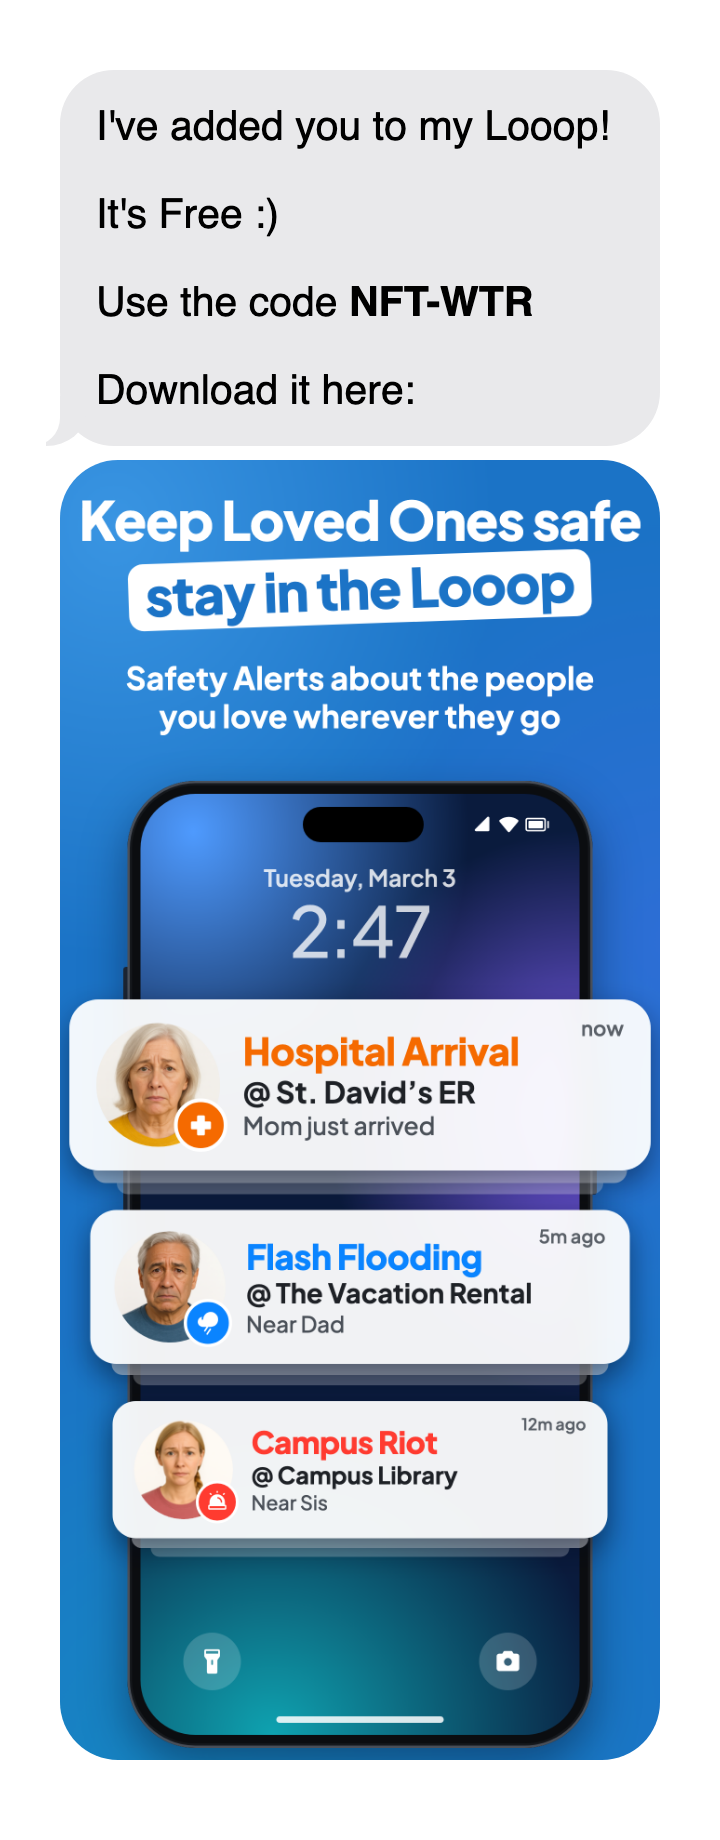
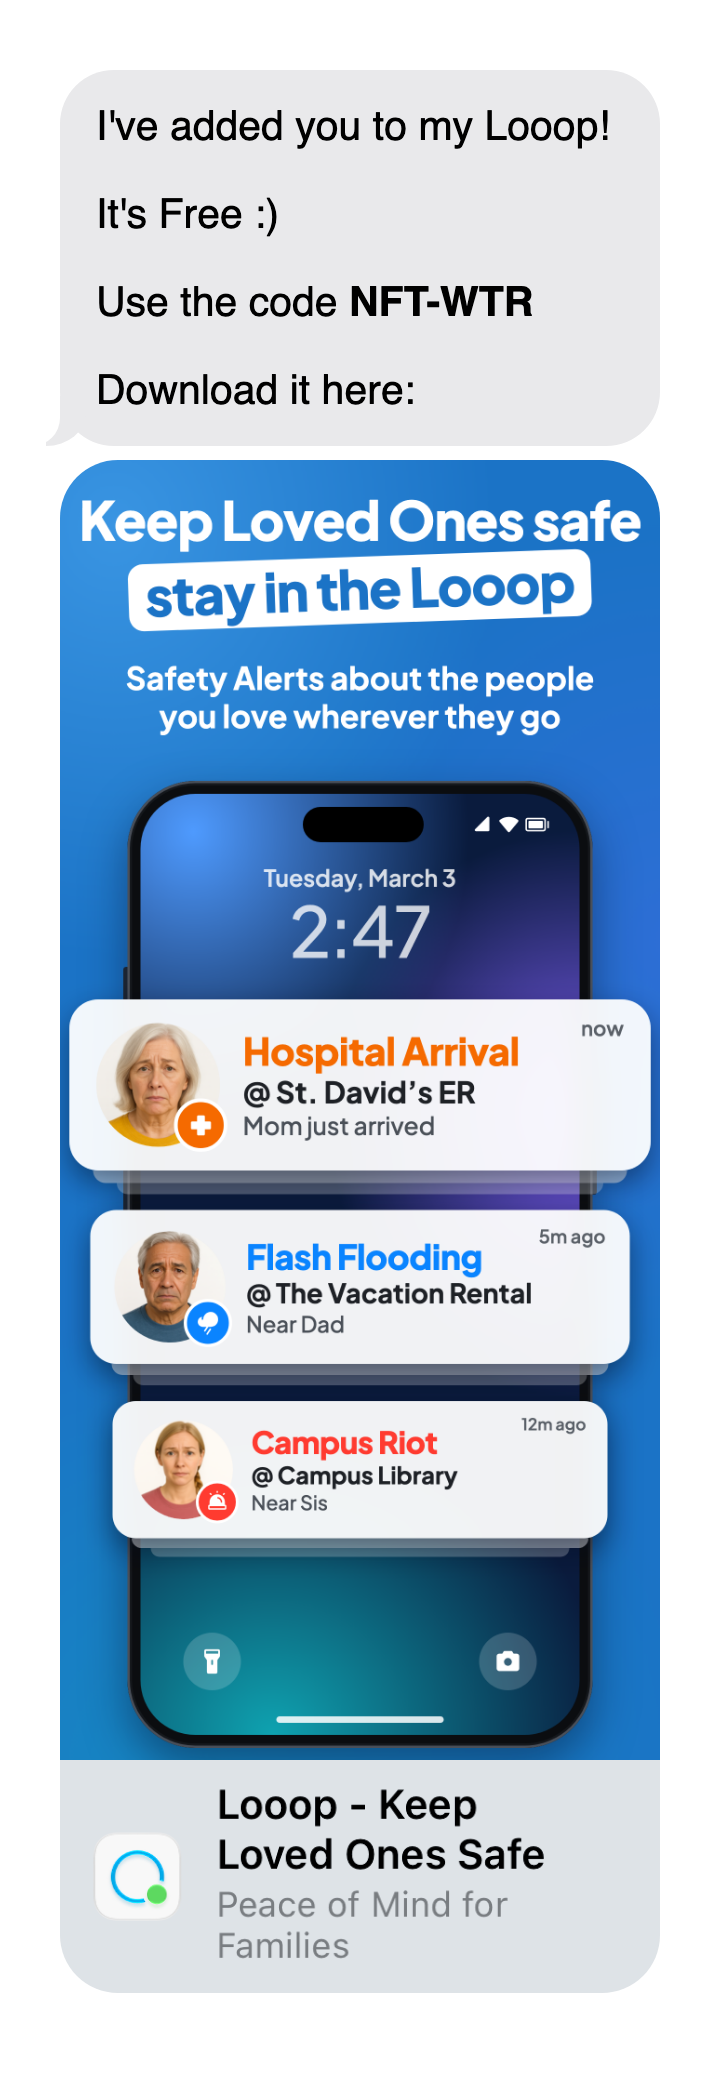
Add the link-card footer under the /invite screenshot

diff --git a/invite.html b/invite.html
@@ -22,7 +22,7 @@
 </head>
 <body>
   <a class="card" href="https://apps.apple.com/us/app/looop-keep-loved-ones-safe/id6760598111?ppid=95d304e6-c38c-4601-ad8b-23c0f87db892">
-    <img src="images/invite-messages.png?v=1122d" width="720" height="1840" alt="Text messages: I've added you to my Looop! It's Free :) Use the code NFT-WTR. Download it here: Looop on the App Store">
+    <img src="images/invite-messages.png?v=1122e" width="720" height="2073" alt="Text messages: I've added you to my Looop! It's Free :) Use the code NFT-WTR. Download it here: Looop on the App Store">
   </a>
   <p>Clicking the link leads to<br><a href="https://apps.apple.com/us/app/looop-keep-loved-ones-safe/id6760598111?ppid=95d304e6-c38c-4601-ad8b-23c0f87db892">Looop on the App Store</a>.</p>
   <div class="spacer" aria-hidden="true"></div>

diff --git a/CHANGELOG.md b/CHANGELOG.md
@@ -2,6 +2,11 @@
 
 Changes to thelooopapp.com, newest first. This file is not published (see `_config.yml`).
 
+## 2026-11-22 15:20 CT
+
+### Pages
+- **`/invite` image keeps the link-card footer** (`images/invite-messages.png`, `invite.html`): the invite screenshot sits in the same style as the Messages link preview, with the gray bottom bar (Looop icon, "Looop - Keep Loved Ones Safe", "Peace of Mind for Families") and rounded corners.
+
 ## 2026-11-22 15:00 CT
 
 ### Pages
